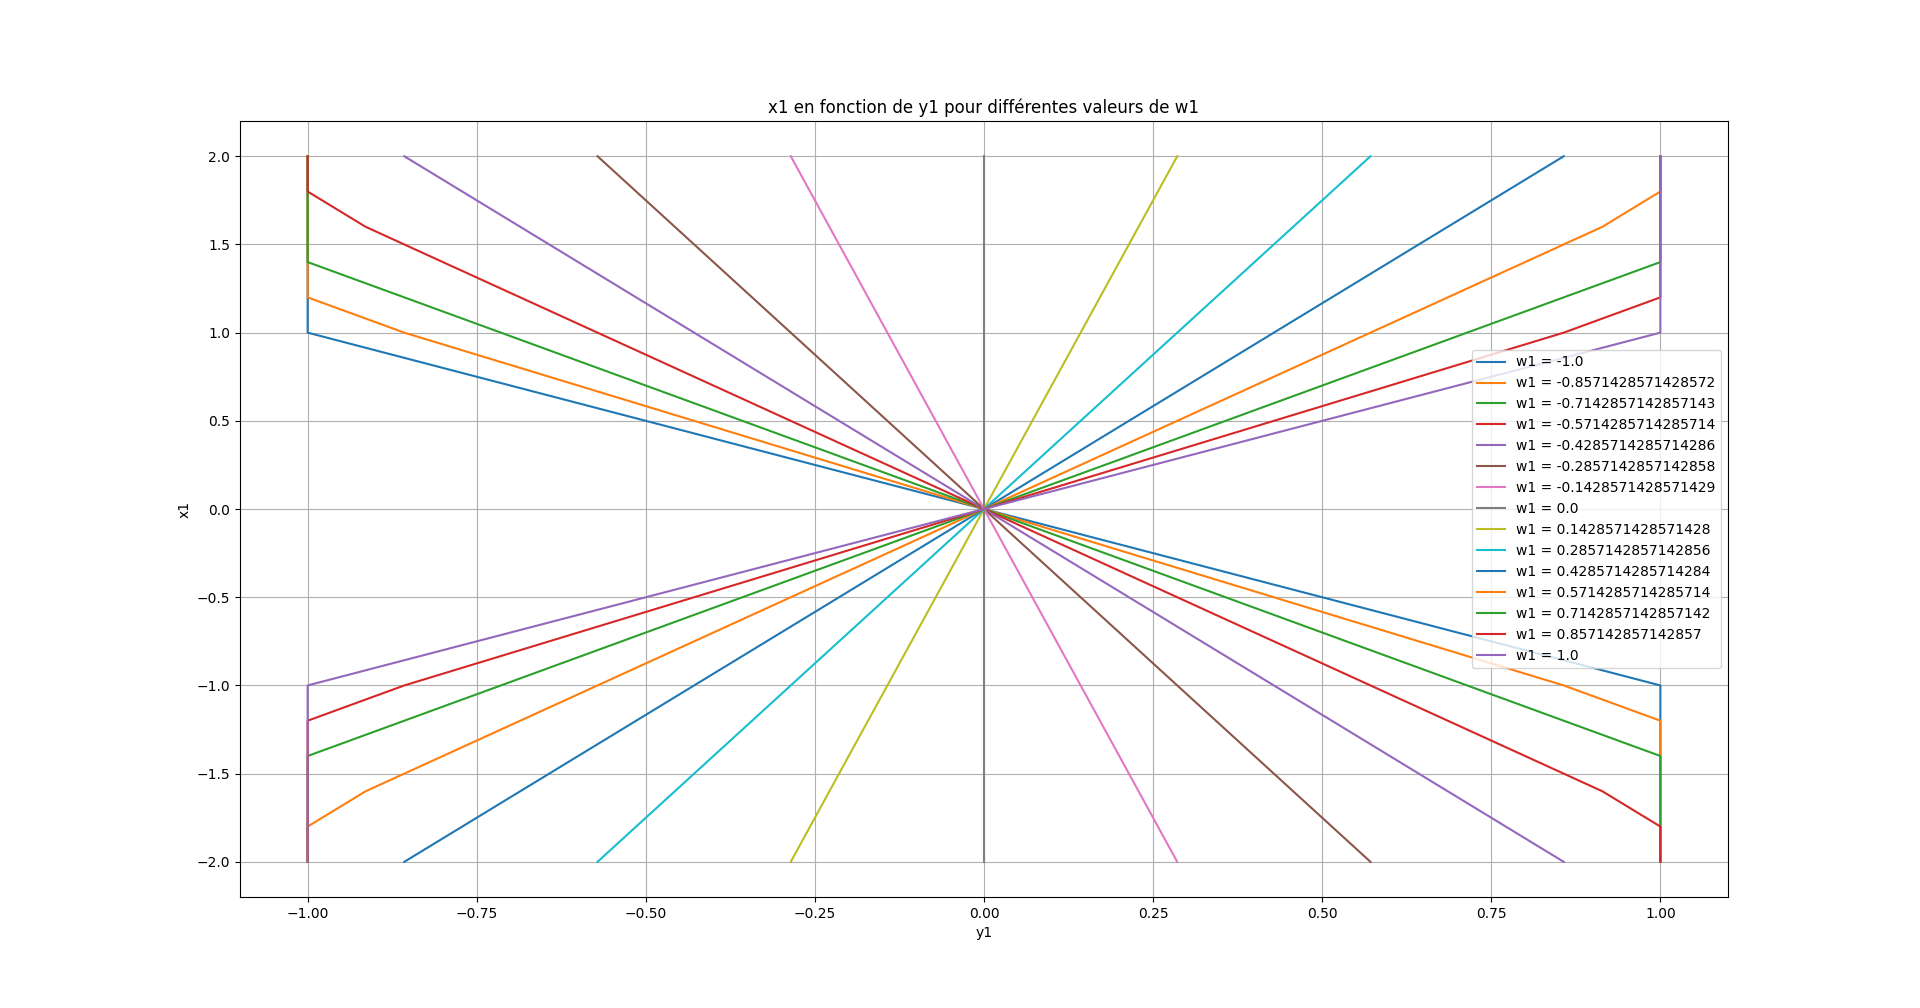
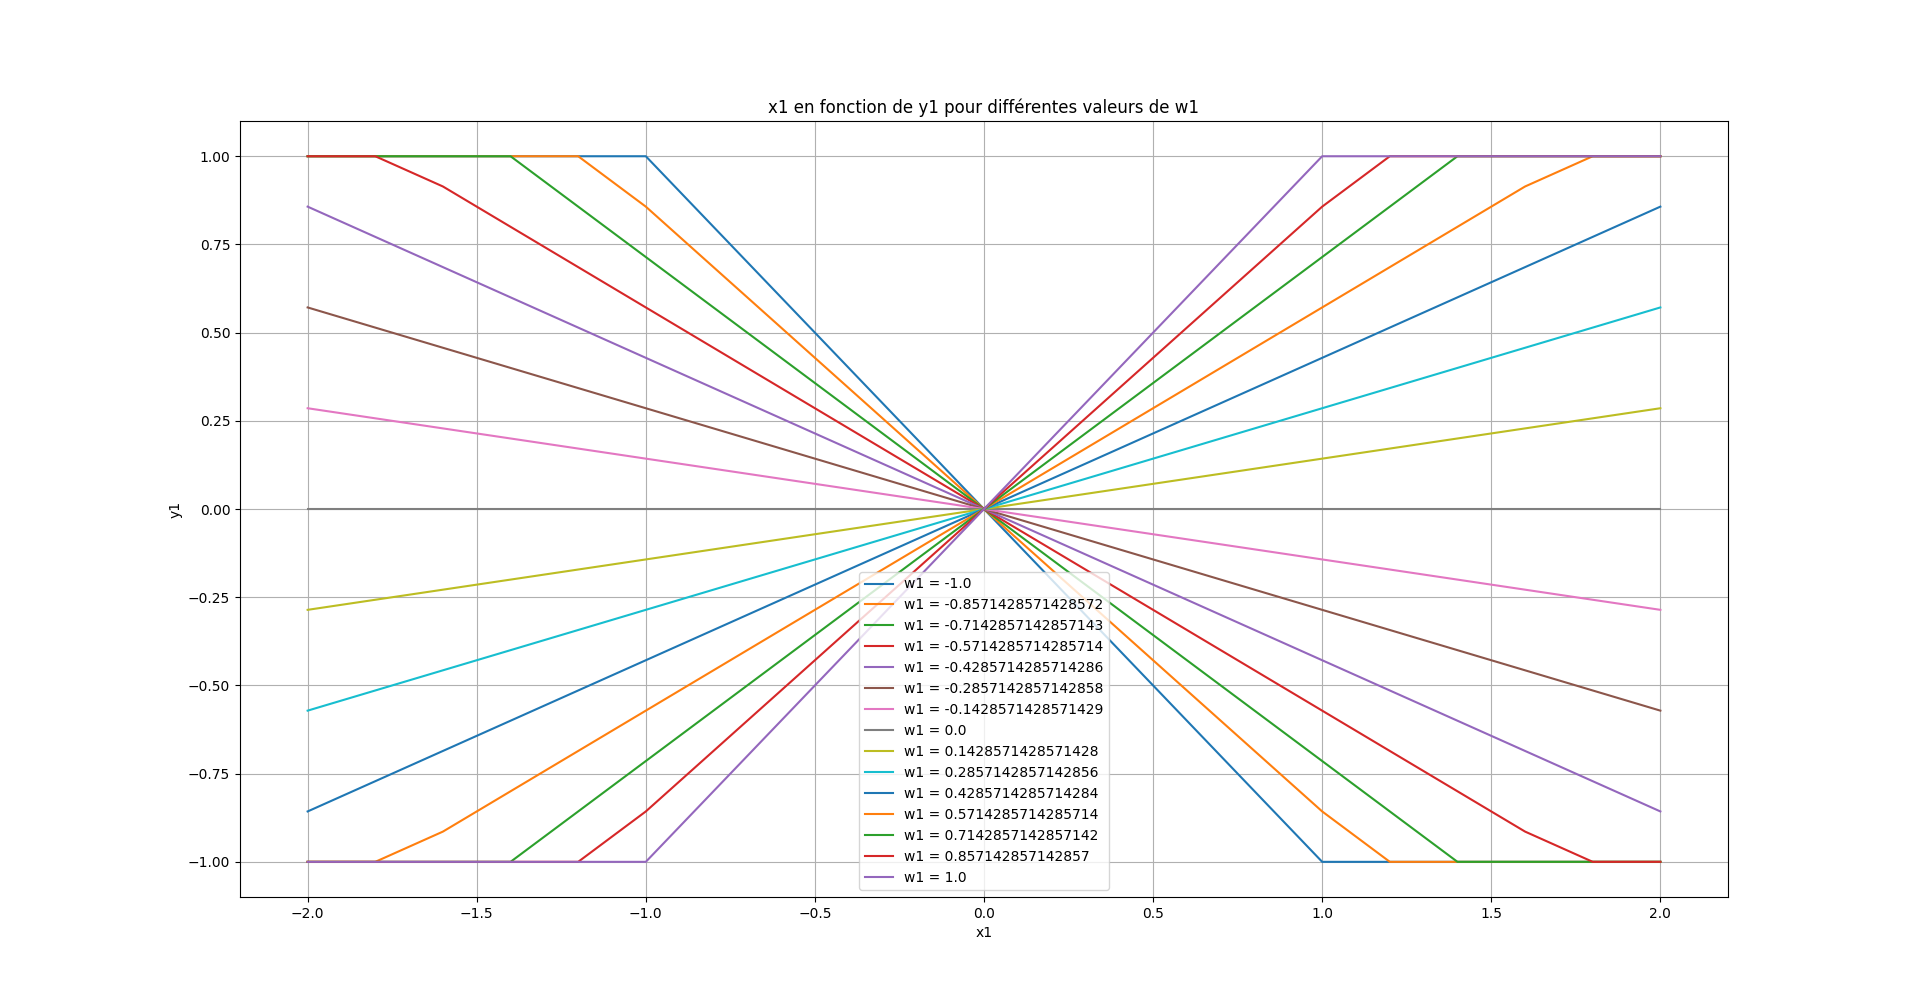
jusqu'à exercice 4 OK

diff --git a/Simulateur-Python/controllers/tp6/perceptron.py b/Simulateur-Python/controllers/tp6/perceptron.py
@@ -1,0 +1,103 @@
+import numpy as np
+import matplotlib.pyplot as plt
+from flags_file import flags
+
+# Define variables x1 and x2 with values 0 and/or 1.
+x1 = [0, 0, 1, 1]
+x2 = [0, 1, 0, 1]
+
+# Function to calculate s
+def get_s(x, w):
+    s = np.dot(x,w)
+    return s
+
+# Function to calculate y
+def get_y(s):
+    return s > 0
+
+# Function to test OR gate and find weights
+def test_gate(X1, X2, W):
+    for i, xi in enumerate(X1):
+        s = get_s([1, X1[i], X2[i]], W)
+        y = get_y(s)
+        print("x = ", X1[i], X2[i], "y = ", y)
+
+def inference(X,W):
+    s=np.dot(X,W)
+    y=s>0
+    return y
+
+def f_analogique(x):
+    y = x
+    
+    if x < -1:
+        y = -1
+    elif x > 1:
+        y = 1
+
+    return y
+
+
+def find_weights(gate):
+    # Iterate through each x value one at a time to find weights
+    for w0 in [i * 0.1 for i in range(-10, 11)]: # from -1 up to 1, step = 0.1
+        for w1 in [i * 0.1 for i in range(-10, 11)]:
+            for w2 in [i * 0.1 for i in range(-10, 11)]:
+                all_correct = True
+                for i in range(len(x1)):
+                    s = get_s([1,x1[i],x2[i]],[w0,w1,w2])
+                    y = get_y(s)
+                    if gate == "OR":
+                        if not (y == (x1[i] or x2[i])):  # Check if output matches OR gate truth table
+                            all_correct = False
+                            break
+                    if gate == "AND":
+                        if not (y == (x1[i] and x2[i])):  # Check if output matches AND gate truth table
+                            all_correct = False
+                            break
+                    elif gate == "XOR":
+                        if not (y == (x1[i] ^ x2[i])):  # Check if output matches XOR gate truth table
+                            all_correct = False
+                            break
+                if all_correct:
+                    print("Found weights for", gate, "gate:", "w0 =", w0, ", w1 =", w1, ", w2 =", w2)
+                    test_gate(x1, x2, [w0, w1, w2])
+                    break
+            if all_correct:
+                break
+        if all_correct:
+            break
+
+def plot_input_plan_weight(x1, x2, t):
+    x = [0, t]
+    y = [t, 0]
+
+    plt.plot(x, y, 'r')
+    
+    xpoints = np.array(x1)
+    ypoints = np.array(x2)
+
+    plt.plot(xpoints, ypoints, 'o')
+    plt.xlabel("x1")
+    plt.ylabel("x2")
+    plt.grid()
+
+    plt.show()    
+
+if flags["debug"]:
+    print("-------------------------------------------------------------------")
+    find_weights("OR")
+    print("-------------------------------------------------------------------")
+    find_weights("AND")
+    print("-------------------------------------------------------------------")
+    find_weights("XOR") # https://humphryscomputing.com/Notes/Neural/single.neural.html
+
+if flags["graphics"]:
+    print("-------------------------------------------------------------------")
+    plot_input_plan_weight(x1, x2, 0.5) # OR
+    test_gate(x1, x2, [0.0, 1.0, 1.0])
+    
+    print("-------------------------------------------------------------------")
+    plot_input_plan_weight(x1, x2, 1) # AND
+    test_gate(x1, x2, [-1.5, 1.0, 1.0])
+    

diff --git a/Simulateur-Python/controllers/tp6/tp6.py b/Simulateur-Python/controllers/tp6/tp6.py
@@ -1,0 +1,105 @@
+'''
+Developed by Alaf D. N. SANTOS and Simon BERTHOUMIEUX in the context of the Artificial Intelligence for Robotics course. Master SETI.
+
+tp6 controller (main file)
+'''
+# Importing the needed libraries
+from controller import *
+
+from motors_controller import forward, backward, stop, keyboard_control
+from flags_file import flags
+from multi_layer import f_activation_sat
+from perceptron import get_y, get_s, f_analogique
+import numpy as np
+
+if flags["exercice_4"]:
+    '''
+    Using the given architecture (from the assignment)
+    '''
+    w11 = 1.0
+    w12 = 1.0
+    w21 = 1.0
+    w22 = -2.0
+    w23 = -2.0
+    w24 = 1.0
+
+elif flags["exercice_6"]:
+    w_fwd = 0.7
+    w_back = 0.9
+    w_pos = 1.0
+    w_neg = 1.0
+
+    W_l = [w_fwd,w_pos,-w_back,-w_neg]
+    W_r = [w_fwd,-w_neg,-w_back,w_pos]
+    
+
+robot = Supervisor()
+keyboard = Keyboard()
+
+timestep = int(robot.getBasicTimeStep())
+keyboard.enable(timestep)
+
+motor_left = robot.getDevice("motor.left")
+motor_right = robot.getDevice("motor.right")
+motor_left.setPosition(float('inf'))
+motor_right.setPosition(float('inf'))
+motor_left.setVelocity(0)
+motor_right.setVelocity(0)
+node = robot.getFromDef("Thymio")
+
+sensor_left_front = robot.getDevice('prox.horizontal.0')
+sensor_center_front = robot.getDevice('prox.horizontal.2')
+sensor_right_front = robot.getDevice('prox.horizontal.4')
+
+sensor_left_back = robot.getDevice('prox.horizontal.5')
+sensor_right_back = robot.getDevice('prox.horizontal.6')
+
+sensor_left_front.enable(timestep)
+sensor_center_front.enable(timestep)
+sensor_right_front.enable(timestep)
+sensor_left_back.enable(timestep)
+sensor_right_back.enable(timestep)
+
+plot = 0
+speed_max = 9.53 # max
+distance_max = 4095
+
+while (robot.step(timestep) != -1): #Appel d'une etape de simulation
+    plot += 1
+
+    if flags["keyboard"]:
+        keyboard_control(keyboard, Keyboard, motor_left, motor_right, speed_max)
+    else:
+        x_lf = sensor_left_front.getValue()/distance_max
+        x_cf = sensor_center_front.getValue()/distance_max
+        x_rf = sensor_right_front.getValue()/distance_max
+        X_f = [1, x_lf, x_cf, x_rf]
+
+        if flags["exercice_4"]:
+            print("starting")
+            s1 = f_activation_sat(np.matrix(x_lf).T, np.matrix(w11))
+            s2 = f_activation_sat(np.matrix(x_rf).T, np.matrix(w12))
+
+            w1 = [w21, w23]
+            w2 = [w22, w24]
+            
+            y1 = f_activation_sat(np.matrix([s1,s2]).T, np.matrix(w1).T)
+            y2 = f_activation_sat(np.matrix([s1,s2]).T, np.matrix(w2).T)
+
+            print("sorties: ", y1, y2)
+            motor_left.setVelocity(y1[0]*speed_max)
+            motor_right.setVelocity(y2[0]*speed_max)
+
+        elif flags["exercice_5"]:
+            print("faire apres")
+        
+        elif flags["exercice_6"]:
+            s_l = get_s(X_f, W_l)
+            y_l = f_analogique(s_l)
+            s_r = get_s(X_f, W_r)
+            y_r = f_analogique(s_r)
+
+            motor_left.setVelocity(y_l*speed_max)
+            motor_right.setVelocity(y_r*speed_max)
+
+        

diff --git a/Simulateur-Python/controllers/tp6/multi_layer.py b/Simulateur-Python/controllers/tp6/multi_layer.py
@@ -1,12 +1,12 @@
 import numpy as np
 import matplotlib.pyplot as plt
+from flags_file import flags
 
 x_range = [-2.0, 2.0]
 w_range = [-1.0, 1.0]
 
-# Exercice 1
 def f_activation_sat(x, w):
-    s_vec = x*np.transpose(w)
+    s_vec = np.dot(x,w)
     y_vec = []
     for s in s_vec:
         if s < -1:
@@ -14,43 +14,66 @@ def f_activation_sat(x, w):
         elif s > 1:
             y = 1
         else:
-            y = s
+            y = float(s[0])
         y_vec.append(y)
 
     return y_vec
 
-step = .2
-x1 = np.arange(x_range[0], x_range[1] + step, step)
-w1 = [-0.5]*len(x1)
-print(x1)
+def plot_y(x, y, titre):
+    plt.plot(x, np.reshape(y,21))
+    plt.grid()
+    plt.xlabel('x')
+    plt.ylabel('y')
+    plt.title(titre)
+    plt.show()
 
-y1 = f_activation_sat(x1, w1)
+# Exercice 1
+if flags["exercice_1"]:
+    step = .2
+    x1 = np.arange(x_range[0], x_range[1] + step, step)
+    w1 = [-0.5]
 
-plt.plot(y1, x1)
-plt.grid()
-plt.xlabel('y1')
-plt.ylabel('x1')
-titre = "x1 par rapport à y1 (avec w1 = " + str(w1[0]) + ")"
-plt.title(titre)
-plt.show()
+    y1 = f_activation_sat(np.matrix(x1).T, np.matrix(w1))
+
+    plt.plot(x1, np.reshape(y1,21))
+    plt.grid()
+    plt.xlabel('x1')
+    plt.ylabel('y1')
+    titre = "x1 par rapport à y1 (avec w1 = " + str(w1[0]) + ")"
+    plt.title(titre)
+    plt.show()
 
 # Exercice 2
-for i in range(15):
-    w1_val = -1.0 + i * (2.0 / 14)  # Adjust to get 15 values in the range [-1, 1]
-    w1 = [w1_val] * len(x1)
-    y1 = f_activation_sat(x1, w1)
-    plt.plot(y1, x1, label=f'w1 = {w1_val}')
+if flags["exercice_2"]:
+    for i in range(15):
+        w1_val = -1.0 + i * (2.0 / 14)  # Adjust to get 15 values in the range [-1, 1]
+        w1 = [w1_val]
+        y1 = f_activation_sat(np.matrix(x1).T, np.matrix(w1))
+        plt.plot(x1, np.reshape(y1,21), label=f'w1 = {w1_val}')
 
-plt.grid()
-plt.xlabel('y1')
-plt.ylabel('x1')
-plt.title('x1 en fonction de y1 pour différentes valeurs de w1')
-plt.legend()
-plt.show()
+    plt.grid()
+    plt.xlabel('x1')
+    plt.ylabel('y1')
+    plt.title('x1 en fonction de y1 pour différentes valeurs de w1')
+    plt.legend()
+    plt.show()
 
 # Exercice 3 (EM DESENVOLVIMENTO)
-w11 = 1.0
-w12 = 0.5
-w21 = 1.0
-w22 = -1.0
-w = [[w11, w12], [w21, w22]]
+if flags["exercice_3"]:
+    w11 = 1.0
+    w12 = 0.5
+    w21 = 1.0
+    w22 = -1.0
+
+    w1 = [w11]
+    w2 = [w12]
+    w3 = [w21, w22]
+
+    y1 = f_activation_sat(np.matrix(x1).T, np.matrix(w1))
+    y2 = f_activation_sat(np.matrix(x1).T, np.matrix(w2))
+
+    y3 = f_activation_sat(np.matrix([y1,y2]).T, np.matrix(w3).T)
+
+    plot_y(x1, y3, "ex 3")
+
+# Exercice 4 - dans webots

diff --git a/Simulateur-Python/controllers/tp6/flags_file.py b/Simulateur-Python/controllers/tp6/flags_file.py
@@ -2,9 +2,10 @@ flags = {
     "debug": True,
     "graphics": False,
     "keyboard": False,
+    "exercice_1": False,
     "exercice_2": False,
-    "exercice_3_0_1": False,
-    "exercice_3_0_2": False,
-    "exercice_3_1": True,
-    "exercice_3_2": False
+    "exercice_3": False,
+    "exercice_4": True,
+    "exercice_5": False,
+    "exercice_6": False,
 }

diff --git a/Simulateur-Python/controllers/tp5/tp5.py b/Simulateur-Python/controllers/tp5/tp5.py
@@ -1,5 +1,5 @@
 '''
-Developed by Alaf D. N. SANTOS and Simon BERTHOMIEUX in the context of the Artificial Intelligence for Robotics course. Master SETI.
+Developed by Alaf D. N. SANTOS and Simon BERTHOUMIEUX in the context of the Artificial Intelligence for Robotics course. Master SETI.
 
 tp5 controller (main file)
 '''
